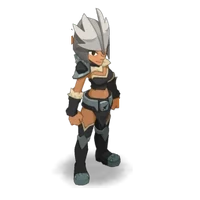
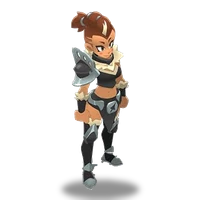
Forgelance : apparence tirée de l'illustration officielle (cheveux, sans casque)
- Les 16 apparences Forgelance viennent maintenant de l'illustration officielle envoyée par Mathis (détourée, retournée vers la droite, ombre au sol comme les autres classes).
- Nouveaux portraits Forgelance tirés de cette illustration.
- Fenêtre Apparence : plus de choix de tête pour le Forgelance (une seule illustration), texte d'explication mis à jour.

Claude-Session: https://claude.ai/code/session_015qLdJVa5fZSSRyhreSRigB

Changed region(s): [[0.3, 0.03, 0.72, 1.0]]

diff --git a/js/ui.js b/js/ui.js
@@ -181,8 +181,8 @@ function lookSheet(c) {
   openSheet(`<h2>Apparence de ${h(c.name)}</h2>
     <div class="lookprev">${lookImg(c, "lookbig")}</div>
     <div class="small"><b>Sexe</b> <span class="seg">${[["m", "Homme"], ["f", "Femme"]].map(([v, n]) => `<button data-act="looksex" data-v="${v}" aria-pressed="${sx === v}">${n}</button>`).join("")}</span></div>
-    <div class="small"><b>Tête</b><div class="headpick">${L[sx].heads.map((_, i) => `<button class="${(c.head || 0) === i ? "on" : ""}" data-act="lookhead" data-v="${i}">${`<img src="${lookLocal(c.cls, sx, i)}" alt="">`}</button>`).join("")}</div></div>
-    ${c.cls === "forge" ? `<p class="xs muted">Le Forgelance s'affiche pour l'instant avec ses couleurs d'origine, sans coiffe ni cape visibles : le rendu officiel de cette classe est encore incomplet.</p>` : ""}<div class="small" ${c.cls === "forge" ? 'style="display:none"' : ""}><b>Couleurs</b><div class="palpick">${LK.PALETTES.map((p) => { const cols = L[sx].colors.slice(); if (p.c) p.c.forEach((v, i) => (cols[i + 1] = v)); return `<button class="${(c.palette || "classique") === p.id ? "on" : ""}" data-act="lookpal" data-v="${p.id}"><span class="sw">${cols.slice(1, 5).map((v) => `<i style="background:#${v.toString(16).padStart(6, "0")}"></i>`).join("")}</span>${h(p.name)}</button>`; }).join("")}</div></div>
+    ${c.cls === "forge" ? "" : `<div class="small"><b>Tête</b><div class="headpick">${L[sx].heads.map((_, i) => `<button class="${(c.head || 0) === i ? "on" : ""}" data-act="lookhead" data-v="${i}">${`<img src="${lookLocal(c.cls, sx, i)}" alt="">`}</button>`).join("")}</div></div>`}
+    ${c.cls === "forge" ? `<p class="xs muted">Le Forgelance s'affiche avec son illustration officielle : une seule tête, ses couleurs d'origine, sans coiffe ni cape visibles.</p>` : ""}<div class="small" ${c.cls === "forge" ? 'style="display:none"' : ""}><b>Couleurs</b><div class="palpick">${LK.PALETTES.map((p) => { const cols = L[sx].colors.slice(); if (p.c) p.c.forEach((v, i) => (cols[i + 1] = v)); return `<button class="${(c.palette || "classique") === p.id ? "on" : ""}" data-act="lookpal" data-v="${p.id}"><span class="sw">${cols.slice(1, 5).map((v) => `<i style="background:#${v.toString(16).padStart(6, "0")}"></i>`).join("")}</span>${h(p.name)}</button>`; }).join("")}</div></div>
     <p class="xs muted">${Object.keys(LK.ITEM_SKINS).length} coiffes et capes apparaissent déjà sur les héros ; les autres arriveront au fil des mises à jour.</p>
     <div><button class="btn primary" data-act="closesheet">Terminé</button></div>`);
 }
